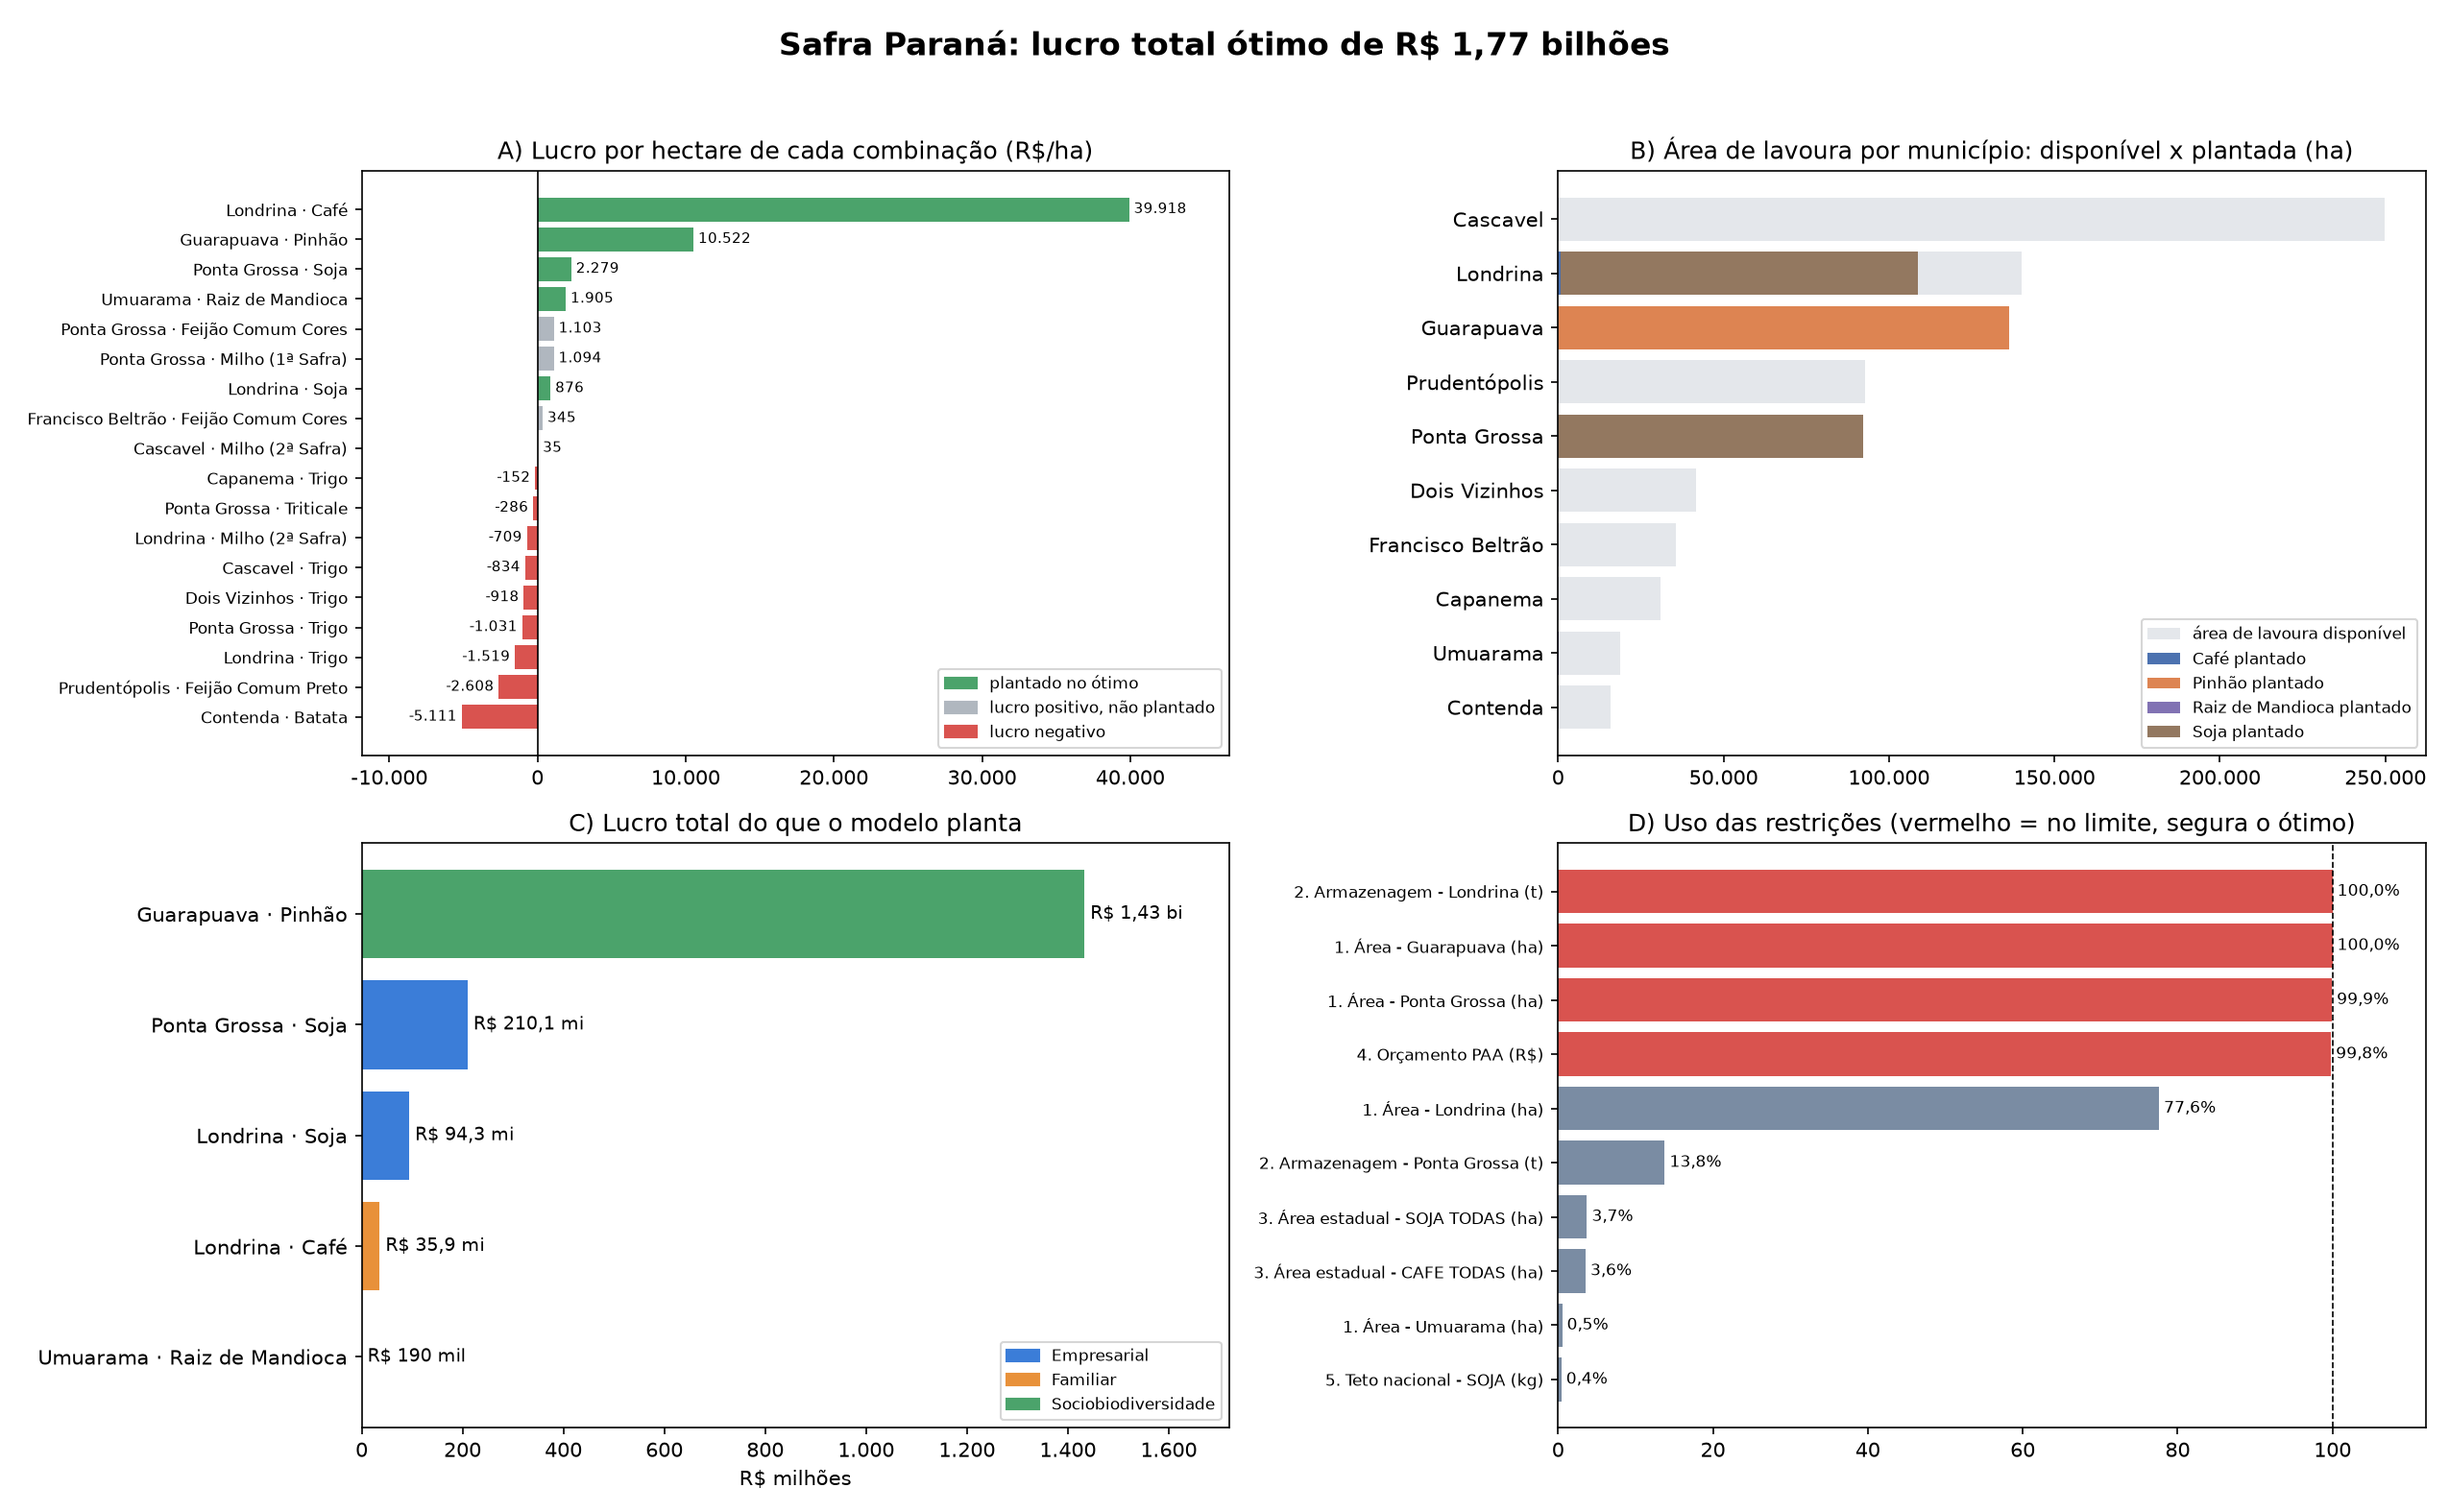
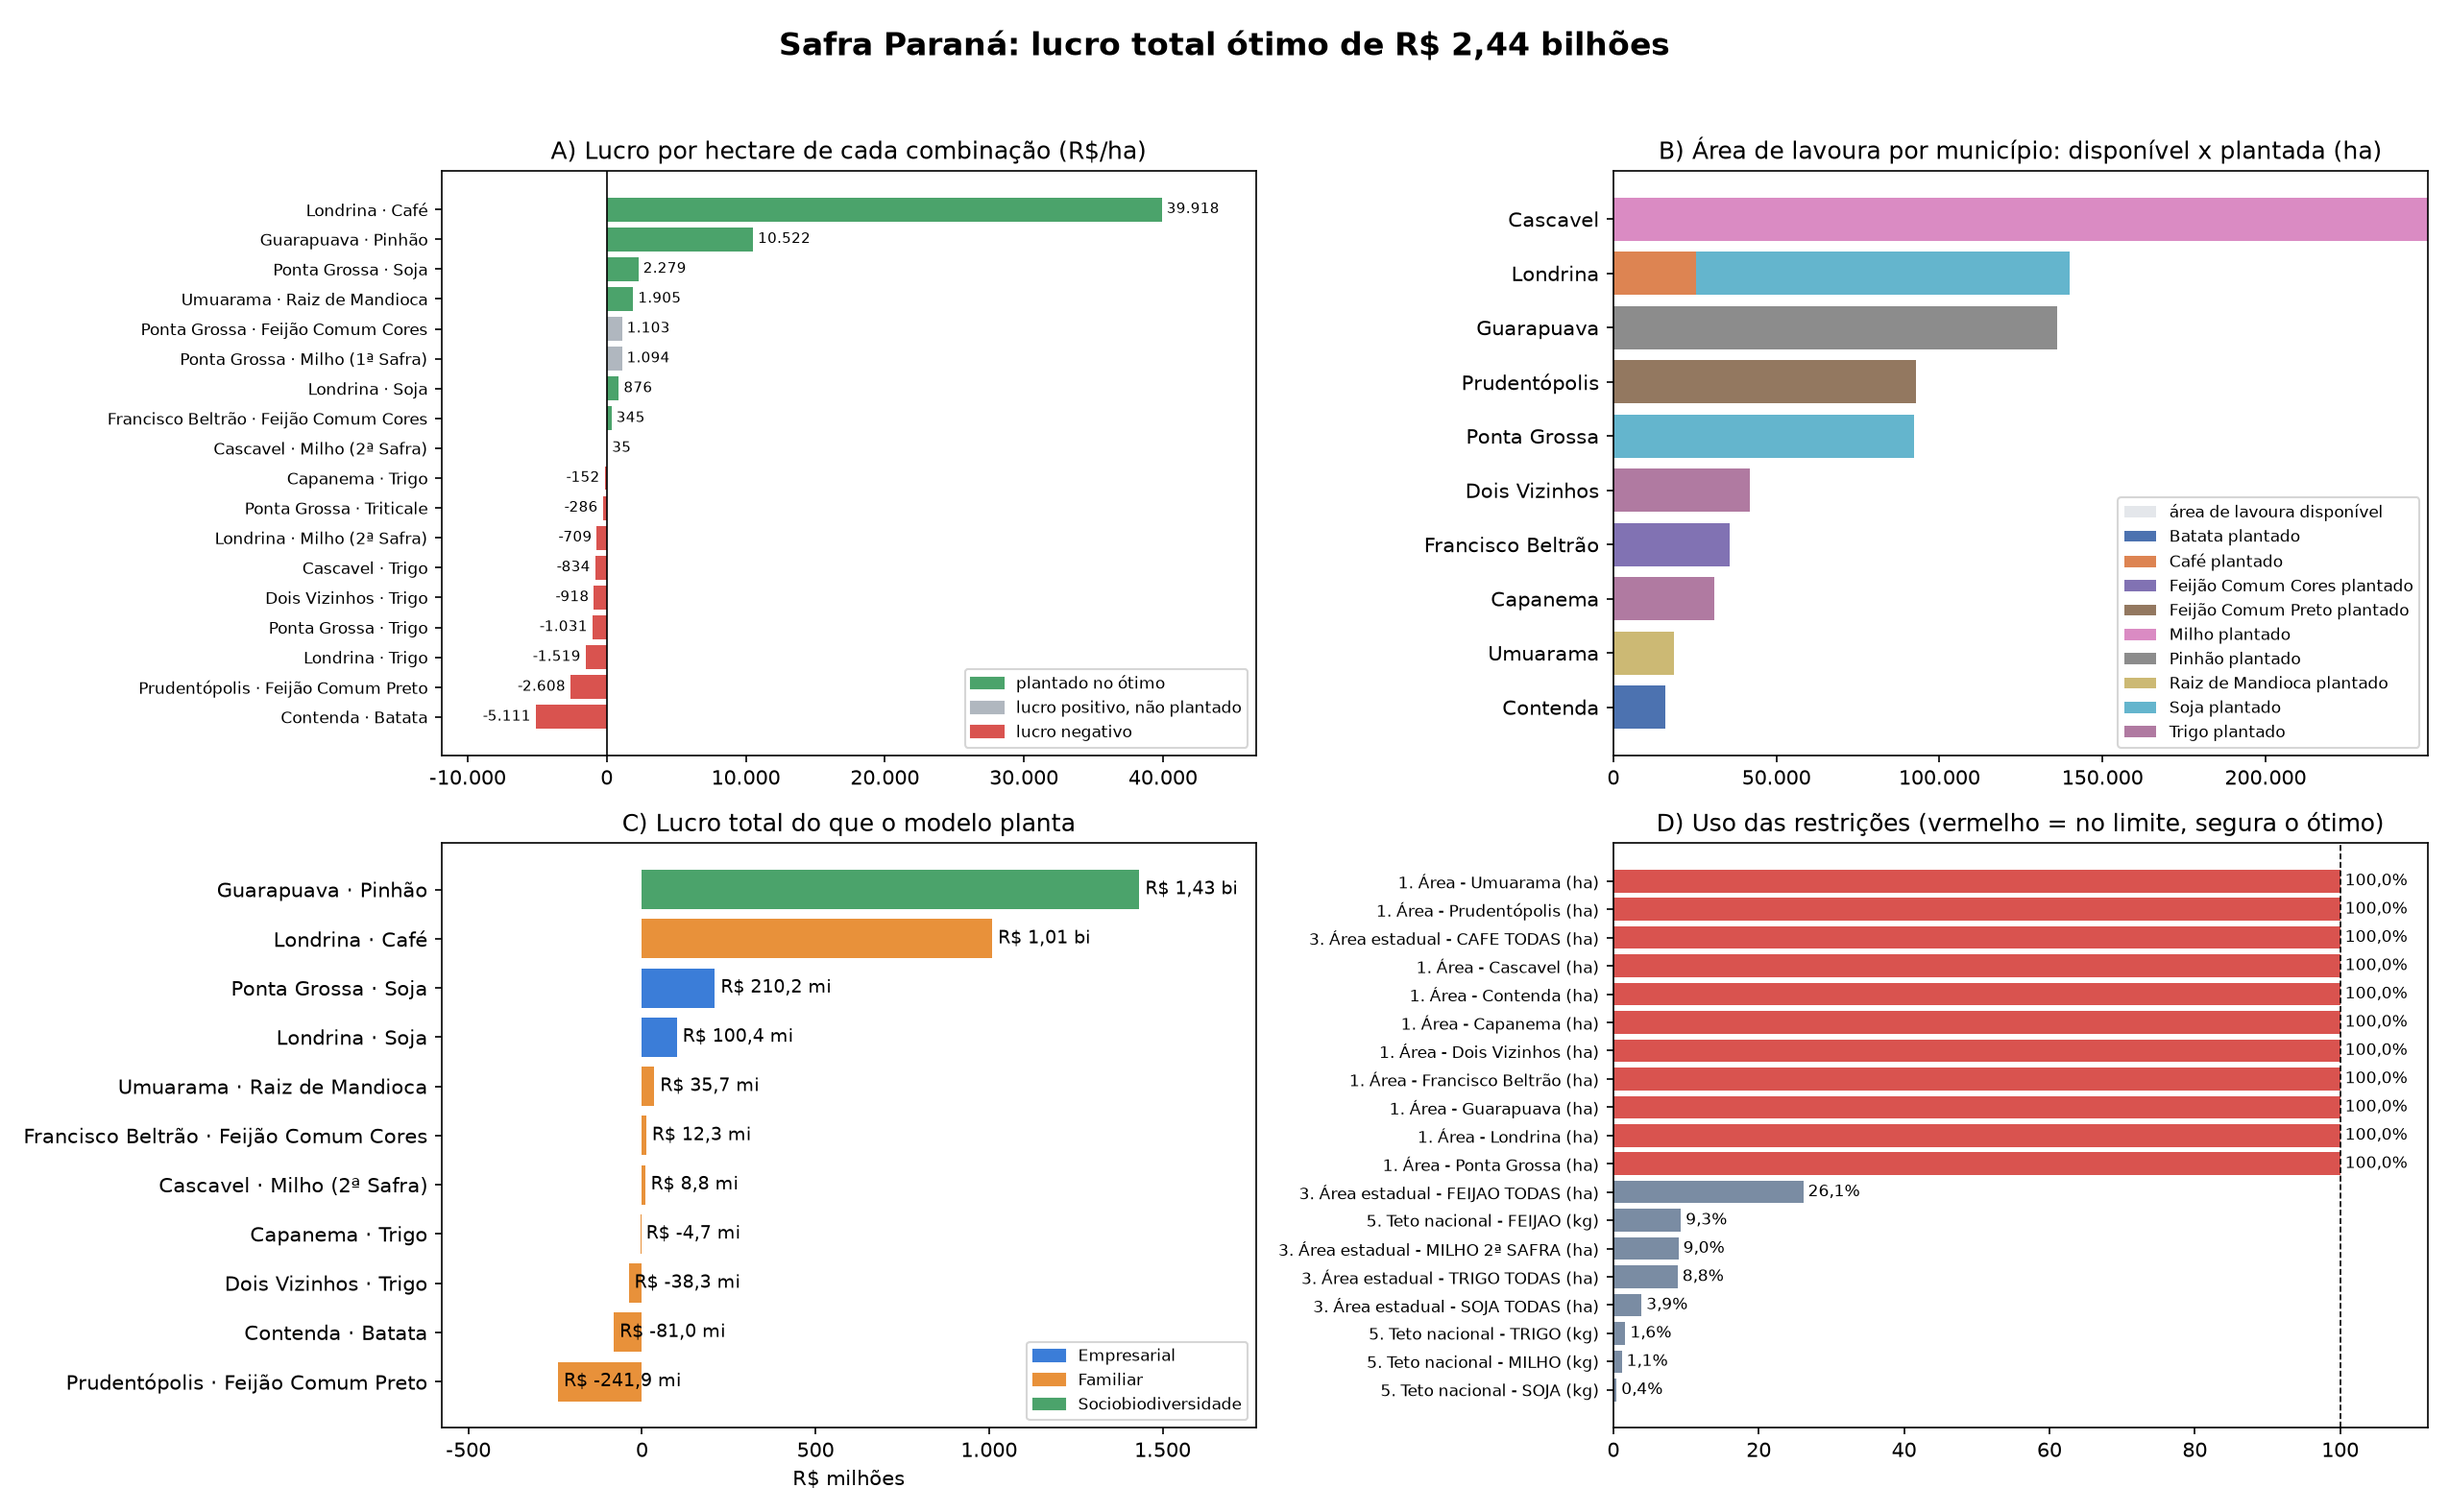
shore:Limpeza

diff --git a/Solver/main.py b/Solver/main.py
@@ -2,26 +2,7 @@ import matplotlib.pyplot as plt
 import pandas as pd
 from matplotlib.patches import Patch
 from matplotlib.ticker import FuncFormatter
-# import dados
 
-'''
-N_MODULOS = 1000
-
-AREA = {}
-for c, v in dados.area_lavoura().items():
-    AREA[dados.MUNICIPIOS[c]] = v
-
-ARM_E = {}
-for c, v in dados.armazenagem().items():
-    ARM_E[dados.MUNICIPIOS[c]] = v
-
-    
-
-TAM = sum(AREA.values()) / N_MODULOS
-'''
-
-################ laNNA ##########
-### não exclui o seu marcos mas add inicio da orquestração da limopeza here.
 from Solver.limpeza_dados import (
     limpar_area_lavoura,
     limpar_armazens,
@@ -34,6 +15,7 @@ from Solver.limpeza_dados import (
 from Solver.modelo import resolver
 from Solver.parametros import montar_parametros
 from Solver.config import EMPRESARIAL, FAMILIAR, MUNICIPIOS, ORC_PAA, RAIZ, SOCIOBIO
+
 
 # FORMATAÇÃO (padrão brasileiro: 1.234.567,89)
 def brl(valor: float, casas: int = 0) -> str:
@@ -94,7 +76,8 @@ def grafico(res: dict, dados: dict) -> None:
     nomes = [MUNICIPIOS[c] for c in disp.index]
     b.barh(nomes, disp.values, color="#E4E7EB", label="área de lavoura disponível")
     esquerda = pd.Series(0.0, index=disp.index)
-    paleta = ["#4C72B0", "#DD8452", "#8172B3", "#937860", "#DA8BC3", "#8C8C8C"]  # sem vermelho/verde
+    paleta = ["#4C72B0", "#DD8452", "#8172B3", "#937860", "#DA8BC3", "#8C8C8C",
+              "#CCB974", "#64B5CD", "#B07AA1", "#2F4B7C"]
     for i, prod in enumerate(plantado.columns):
         b.barh(nomes, plantado[prod].values, left=esquerda.values, color=paleta[i % len(paleta)],
                label=f"{_nome(prod)} plantado")
@@ -117,7 +100,7 @@ def grafico(res: dict, dados: dict) -> None:
                       for e in cor_cat if e in set(p["empreendimento"])],
              loc="lower right", fontsize=8)
 
-    # D) uso das restrições (as que chegam perto de 100% seguram o ótimo)
+    # D) uso das restrições
     dd = ax[1, 1]
     u = res["restricoes"].query("uso_pct > 0.05").sort_values("uso_pct")
     dd.barh(u["restricao"], u["uso_pct"],
@@ -139,12 +122,12 @@ def grafico(res: dict, dados: dict) -> None:
 # LIMPEZA
 def limpar_dados() -> dict:
     return {
-        "custos": limpar_custos(), # custo/ha e Prod(k)
-        "precos": limpar_precos(), # Preço(k) R$/kg
-        "area_municipio": limpar_area_lavoura(), # Área(m) ha
-        "armazenagem": limpar_armazens(), # ArmE(m) t
-        "area_estadual": {**limpar_graos(), **limpar_cafe()}, # ÁreaEst(c) ha
-        "teto_nacional": limpar_oferta_demanda(), # TetoNac(c) kg
+        "custos": limpar_custos(),
+        "precos": limpar_precos(),
+        "area_municipio": limpar_area_lavoura(),
+        "armazenagem": limpar_armazens(),
+        "area_estadual": {**limpar_graos(), **limpar_cafe()},
+        "teto_nacional": limpar_oferta_demanda(),
     }
 
 
@@ -154,33 +137,19 @@ def main() -> None:
     for nome, valor in dados.items():
         print(f"{nome}: {len(valor)} registros")
 
-    # K, TAM, Prod, Preco, K_m, K_area, K_teto, K_fam, K_arm e modulos_max
     par = montar_parametros(dados)
-    print(par["tabela"][["cod_ibge", "produto", "prod_kg_ha", "preco_kg", "lucro_ha"]])
+    
+    # Descomente se quiser debugar o df inteiro:
+    # print(par["tabela"][["cod_ibge", "produto", "prod_kg_ha", "preco_kg", "lucro_ha"]])
 
-    # conjuntos
-    K = par["K"]
-    K_m = par["K_m"]
-    K_area = par["K_area"]
-    K_teto = par["K_teto"]
-    K_fam = par["K_fam"]
-    K_arm = par["K_arm"]
-
-    # parametros por combinacaoo
-    Tam = par["Tam"]
-    Lucro = par["Lucro"]
-    Prod = par["Prod"]
-    Preco = par["Preco"]
-
-    # parametros que vem de dados/config
-    Area = dados["area_municipio"]
-    ArmE = dados["armazenagem"]
-    AreaEst = dados["area_estadual"]
-    TetoNa = dados["teto_nacional"]
-    OrcPAA = ORC_PAA 
+    # CENÁRIOS
+    OCUPACAO_MINIMA = 1.0
+    USAR_PAA = False
+    USAR_ARMAZENAGEM = False
 
     # MODELO
-    res = resolver(par, dados, OrcPAA)
+    res = resolver(par, dados, ORC_PAA, ocupacao_minima=OCUPACAO_MINIMA,
+                   restringir_paa=USAR_PAA, restringir_armazenagem=USAR_ARMAZENAGEM)
 
     print(f"\nstatus: {res['status']}")
     print(f"lucro total (Z): R$ {brl(res['Z'], 2)}  (R$ {brl(res['Z'] / 1e9, 2)} bilhões)")
@@ -189,6 +158,7 @@ def main() -> None:
     plantado = t[t["modulos"] > 0].copy()
     plantado["area_ha"] = plantado["area_ha"].map(brl)
     plantado["lucro_total"] = plantado["lucro_total"].map(lambda v: "R$ " + brl(v))
+    
     print("\nO que o modelo planta:")
     print(plantado[["municipio", "produto", "safra", "empreendimento",
                     "modulos", "area_ha", "lucro_total"]].to_string(index=False))
@@ -196,6 +166,7 @@ def main() -> None:
     cat = t.groupby("empreendimento")[["area_ha", "lucro_total"]].sum()
     cat["area_ha"] = cat["area_ha"].map(brl)
     cat["lucro_total"] = cat["lucro_total"].map(lambda v: "R$ " + brl(v))
+    
     print("\nPor categoria de produtor:")
     print(cat)
 
@@ -203,6 +174,7 @@ def main() -> None:
     uso["uso"] = uso["uso"].map(brl)
     uso["limite"] = uso["limite"].map(brl)
     uso["uso_pct"] = uso["uso_pct"].map(lambda v: brl(v, 1) + "%")
+    
     print("\nRestrições (uso / limite):")
     print(uso.to_string(index=False))
 
@@ -211,10 +183,3 @@ def main() -> None:
 
 if __name__ == "__main__":
     main()
-
-# A FAZER AINDA:
-# - soja: 12º lev de 2024/25 cai de 5,86 para 5,34 mi ha, tem q ver se usa o 11º
-# - teto nacional: hoje é consumo + exportação 2024/25, todos concordam?
-# - custos: média desde 2023 (antes disso o triticale some)
-# - preços: média de 2024 e 2025, trigo e mandioca ponderados (descrito no README)
-# - N_MODULOS ainda provisório, tem q calcular

diff --git a/Solver/modelo.py b/Solver/modelo.py
@@ -1,16 +1,23 @@
+import math
+
 import pandas as pd
 import pulp
 
 from Solver.config import MUNICIPIOS
 
 
-def resolver(par: dict, dados: dict, orc_paa: float, msg: bool = False) -> dict:
-   
+def resolver(par: dict, dados: dict, orc_paa: float, msg: bool = False,
+             ocupacao_minima: float = 0.0, restringir_paa: bool = True,
+             restringir_armazenagem: bool = True) -> dict:
     """Monta e resolve o modelo de programação inteira descrito no README.
 
     par: saída de montar_parametros(dados)
     dados: saída de limpar_dados()
     orc_paa: OrçPAA (R$)
+    ocupacao_minima: fração mínima (0 a 1) dos módulos de cada município que deve ser
+        plantada. 0 = não força nada (padrão); 1 = obriga a usar toda a área.
+    restringir_paa: False desliga a restrição 4 (orçamento do PAA)
+    restringir_armazenagem: False desliga a restrição 2 (armazenagem)
     """
     # ---- CONJUNTOS (índices) -------------------------------------------------
     # k = uma combinação de município e cultura (uma linha da tabela de custos)
@@ -47,9 +54,10 @@ def resolver(par: dict, dados: dict, orc_paa: float, msg: bool = False) -> dict:
     # função objetivo: max Σ Lucro(k) · Tam · Mód(k)
     prob += pulp.lpSum(Lucro[k] * Tam * Mod[k] for k in K)
 
-    restricoes = []  # (descrição, expressão, limite) só para o relatório
+    restricoes = []  # (descrição, expressão, limite): só para o relatório de uso
 
     def add(nome, expr, limite, descricao):
+        # registra a restrição "expr <= limite" no modelo e no relatório
         prob.addConstraint(expr <= limite, nome)
         restricoes.append((descricao, expr, limite))
 
@@ -60,11 +68,12 @@ def resolver(par: dict, dados: dict, orc_paa: float, msg: bool = False) -> dict:
                 f"1. Área - {MUNICIPIOS[m]} (ha)")
 
     # 2. armazenagem por município (kg -> t)
-    for m, ks in K_m.items():
-        ks_arm = [k for k in ks if k in K_arm]
-        if ks_arm:
-            add(f"Arm_{m}", pulp.lpSum(Prod[k] * Tam * Mod[k] / 1000 for k in ks_arm), ArmE[m],
-                f"2. Armazenagem - {MUNICIPIOS[m]} (t)")
+    if restringir_armazenagem:
+        for m, ks in K_m.items():
+            ks_arm = [k for k in ks if k in K_arm]
+            if ks_arm:
+                add(f"Arm_{m}", pulp.lpSum(Prod[k] * Tam * Mod[k] / 1000 for k in ks_arm), ArmE[m],
+                    f"2. Armazenagem - {MUNICIPIOS[m]} (t)")
 
     # 3. área plantada estadual por cultura (e safra, no caso do milho)
     for i, ((cultura, safra), ks) in enumerate(K_area.items()):
@@ -73,7 +82,7 @@ def resolver(par: dict, dados: dict, orc_paa: float, msg: bool = False) -> dict:
                 f"3. Área estadual - {cultura} {safra} (ha)")
 
     # 4. orçamento do PAA (agricultura familiar)
-    if K_fam:
+    if restringir_paa and K_fam:
         add("PAA", pulp.lpSum(Preco[k] * Prod[k] * Tam * Mod[k] for k in K_fam), orc_paa,
             "4. Orçamento PAA (R$)")
 
@@ -82,6 +91,14 @@ def resolver(par: dict, dados: dict, orc_paa: float, msg: bool = False) -> dict:
         if ks:
             add(f"Teto_{i}", pulp.lpSum(Prod[k] * Tam * Mod[k] for k in ks), TetoNac[cultura],
                 f"5. Teto nacional - {cultura} (kg)")
+
+    # 7. (opcional) ocupação mínima: força cada município a plantar pelo menos uma
+    # fração dos seus módulos, mesmo onde o lucro é negativo
+    if ocupacao_minima > 0:
+        for m, ks in K_m.items():
+            if ks:
+                minimo = math.ceil(ocupacao_minima * par["modulos_max"][m])
+                prob.addConstraint(pulp.lpSum(Mod[k] for k in ks) >= minimo, f"OcupMin_{m}")
 
     # resolve com o CBC que já vem com o PuLP
     prob.solve(pulp.PULP_CBC_CMD(msg=msg))

diff --git a/Solver/config.py b/Solver/config.py
@@ -31,7 +31,7 @@ def _ler(caminho: Path) -> pd.DataFrame:
 
 # ESCOLHAS DO MODELO (não vêm de CSV)
 UF = "PR"
-TAM = 100
+TAM = 1
 ORC_PAA = 62_000_000  
 SAFRA_OFERTA = "2024/25"  
 NIVEL_PRECO = "PREÇO RECEBIDO P/ PRODUTOR"
